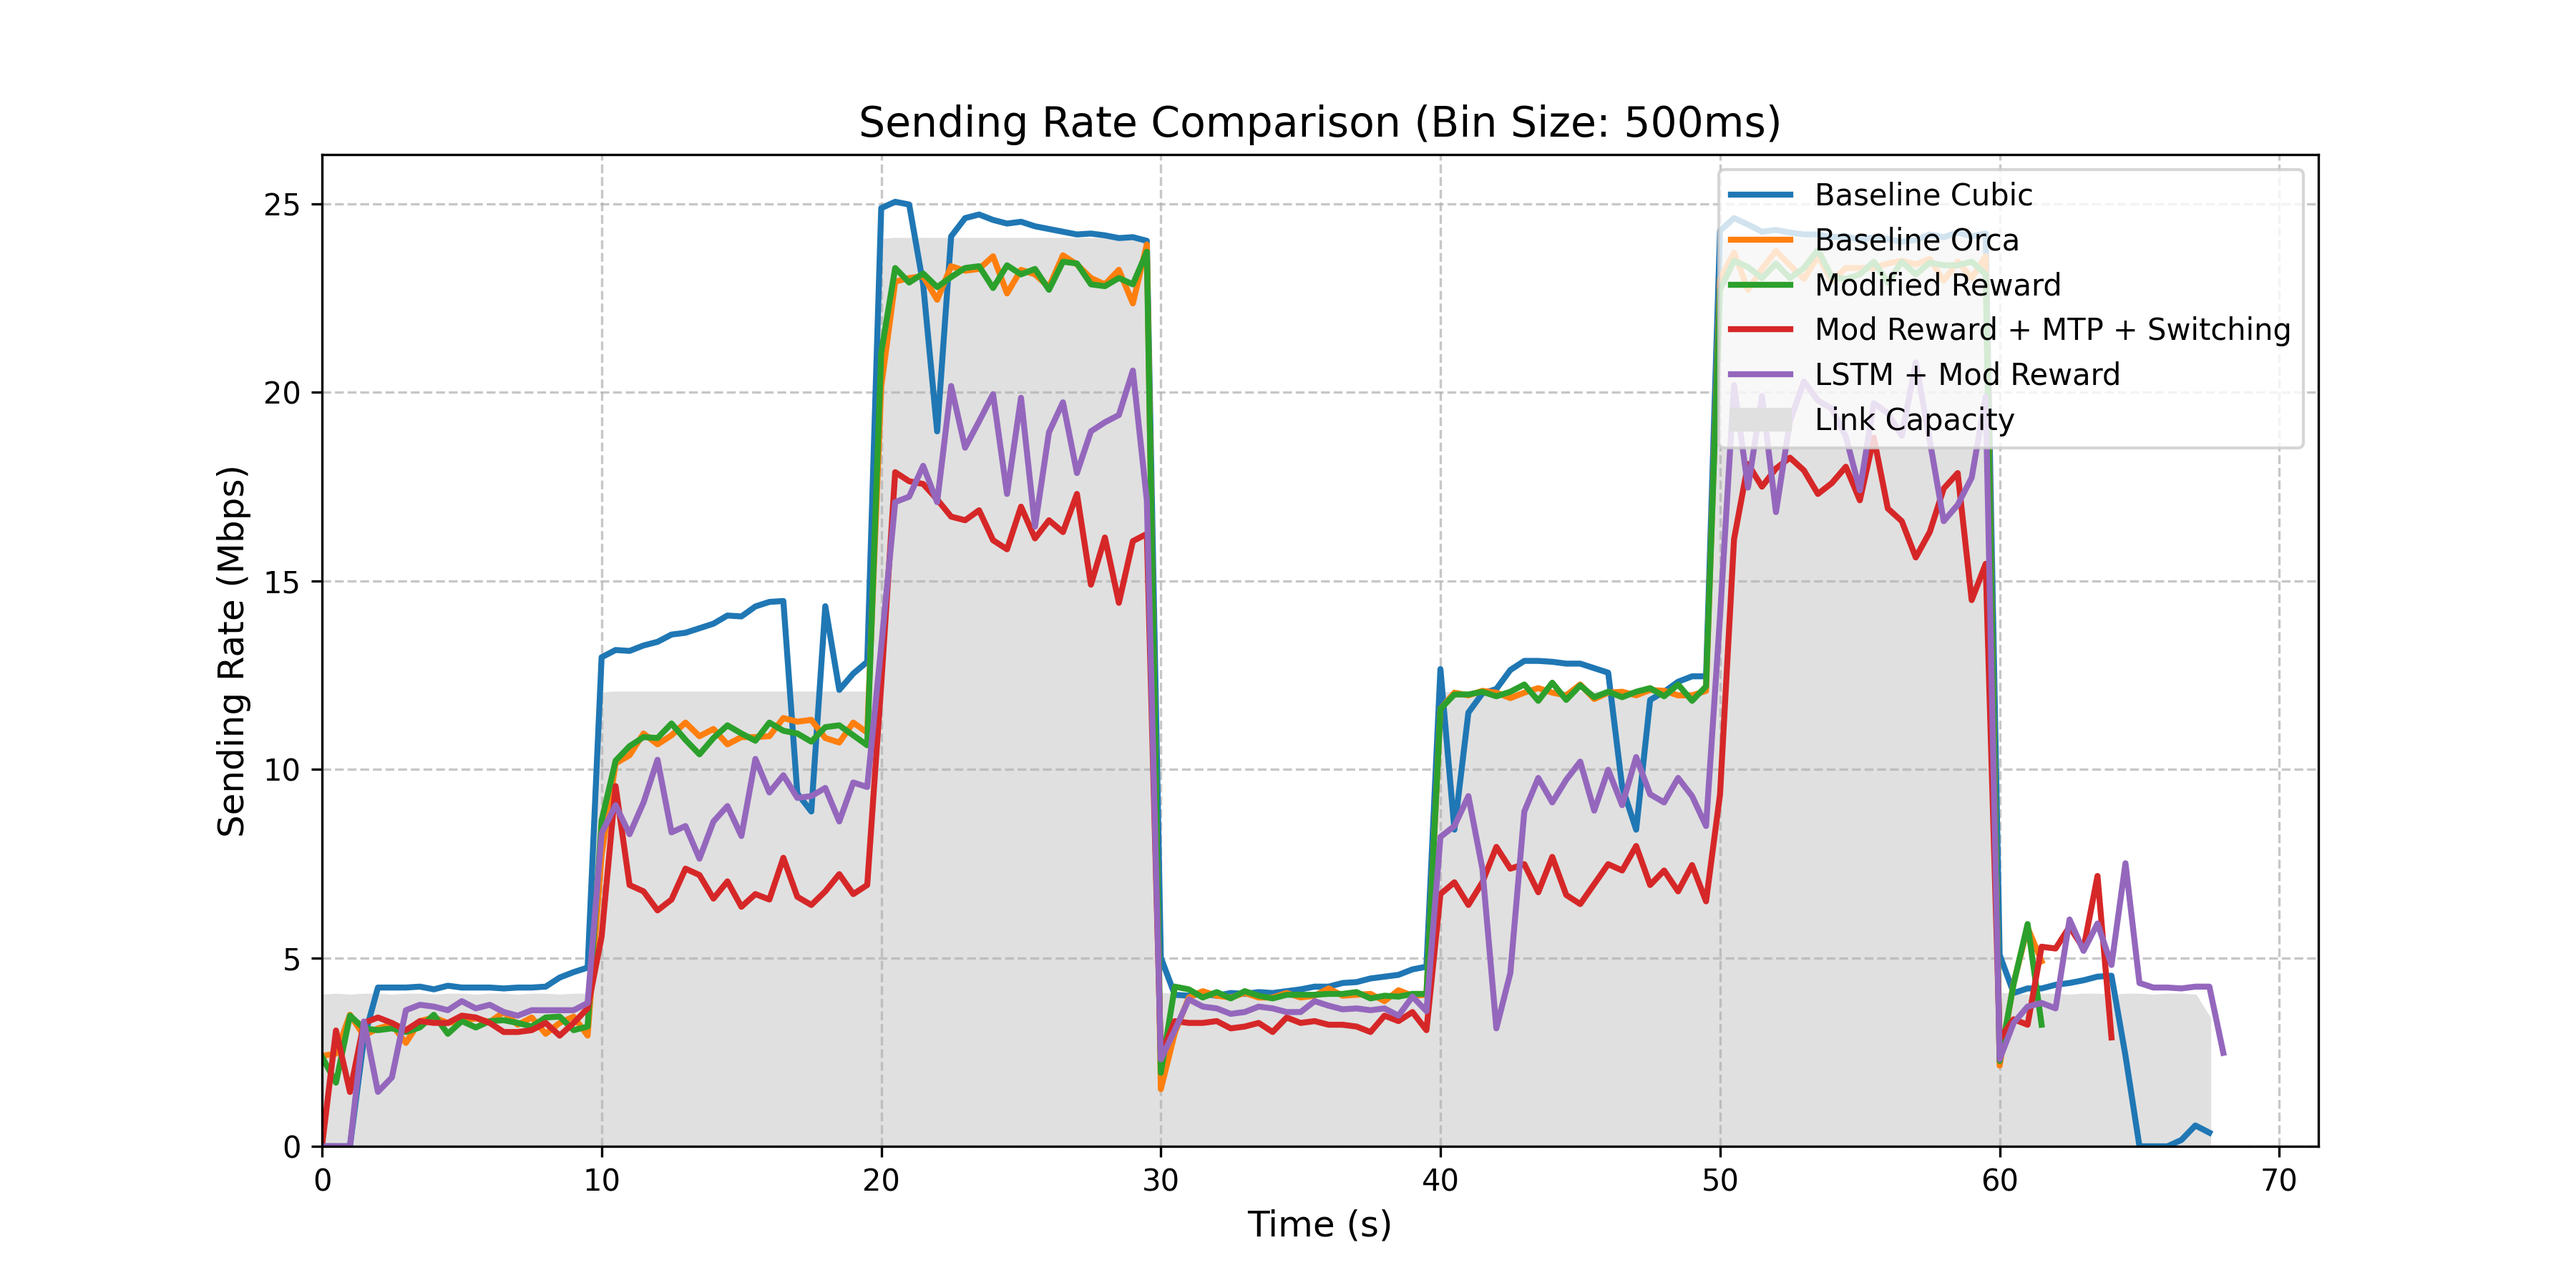
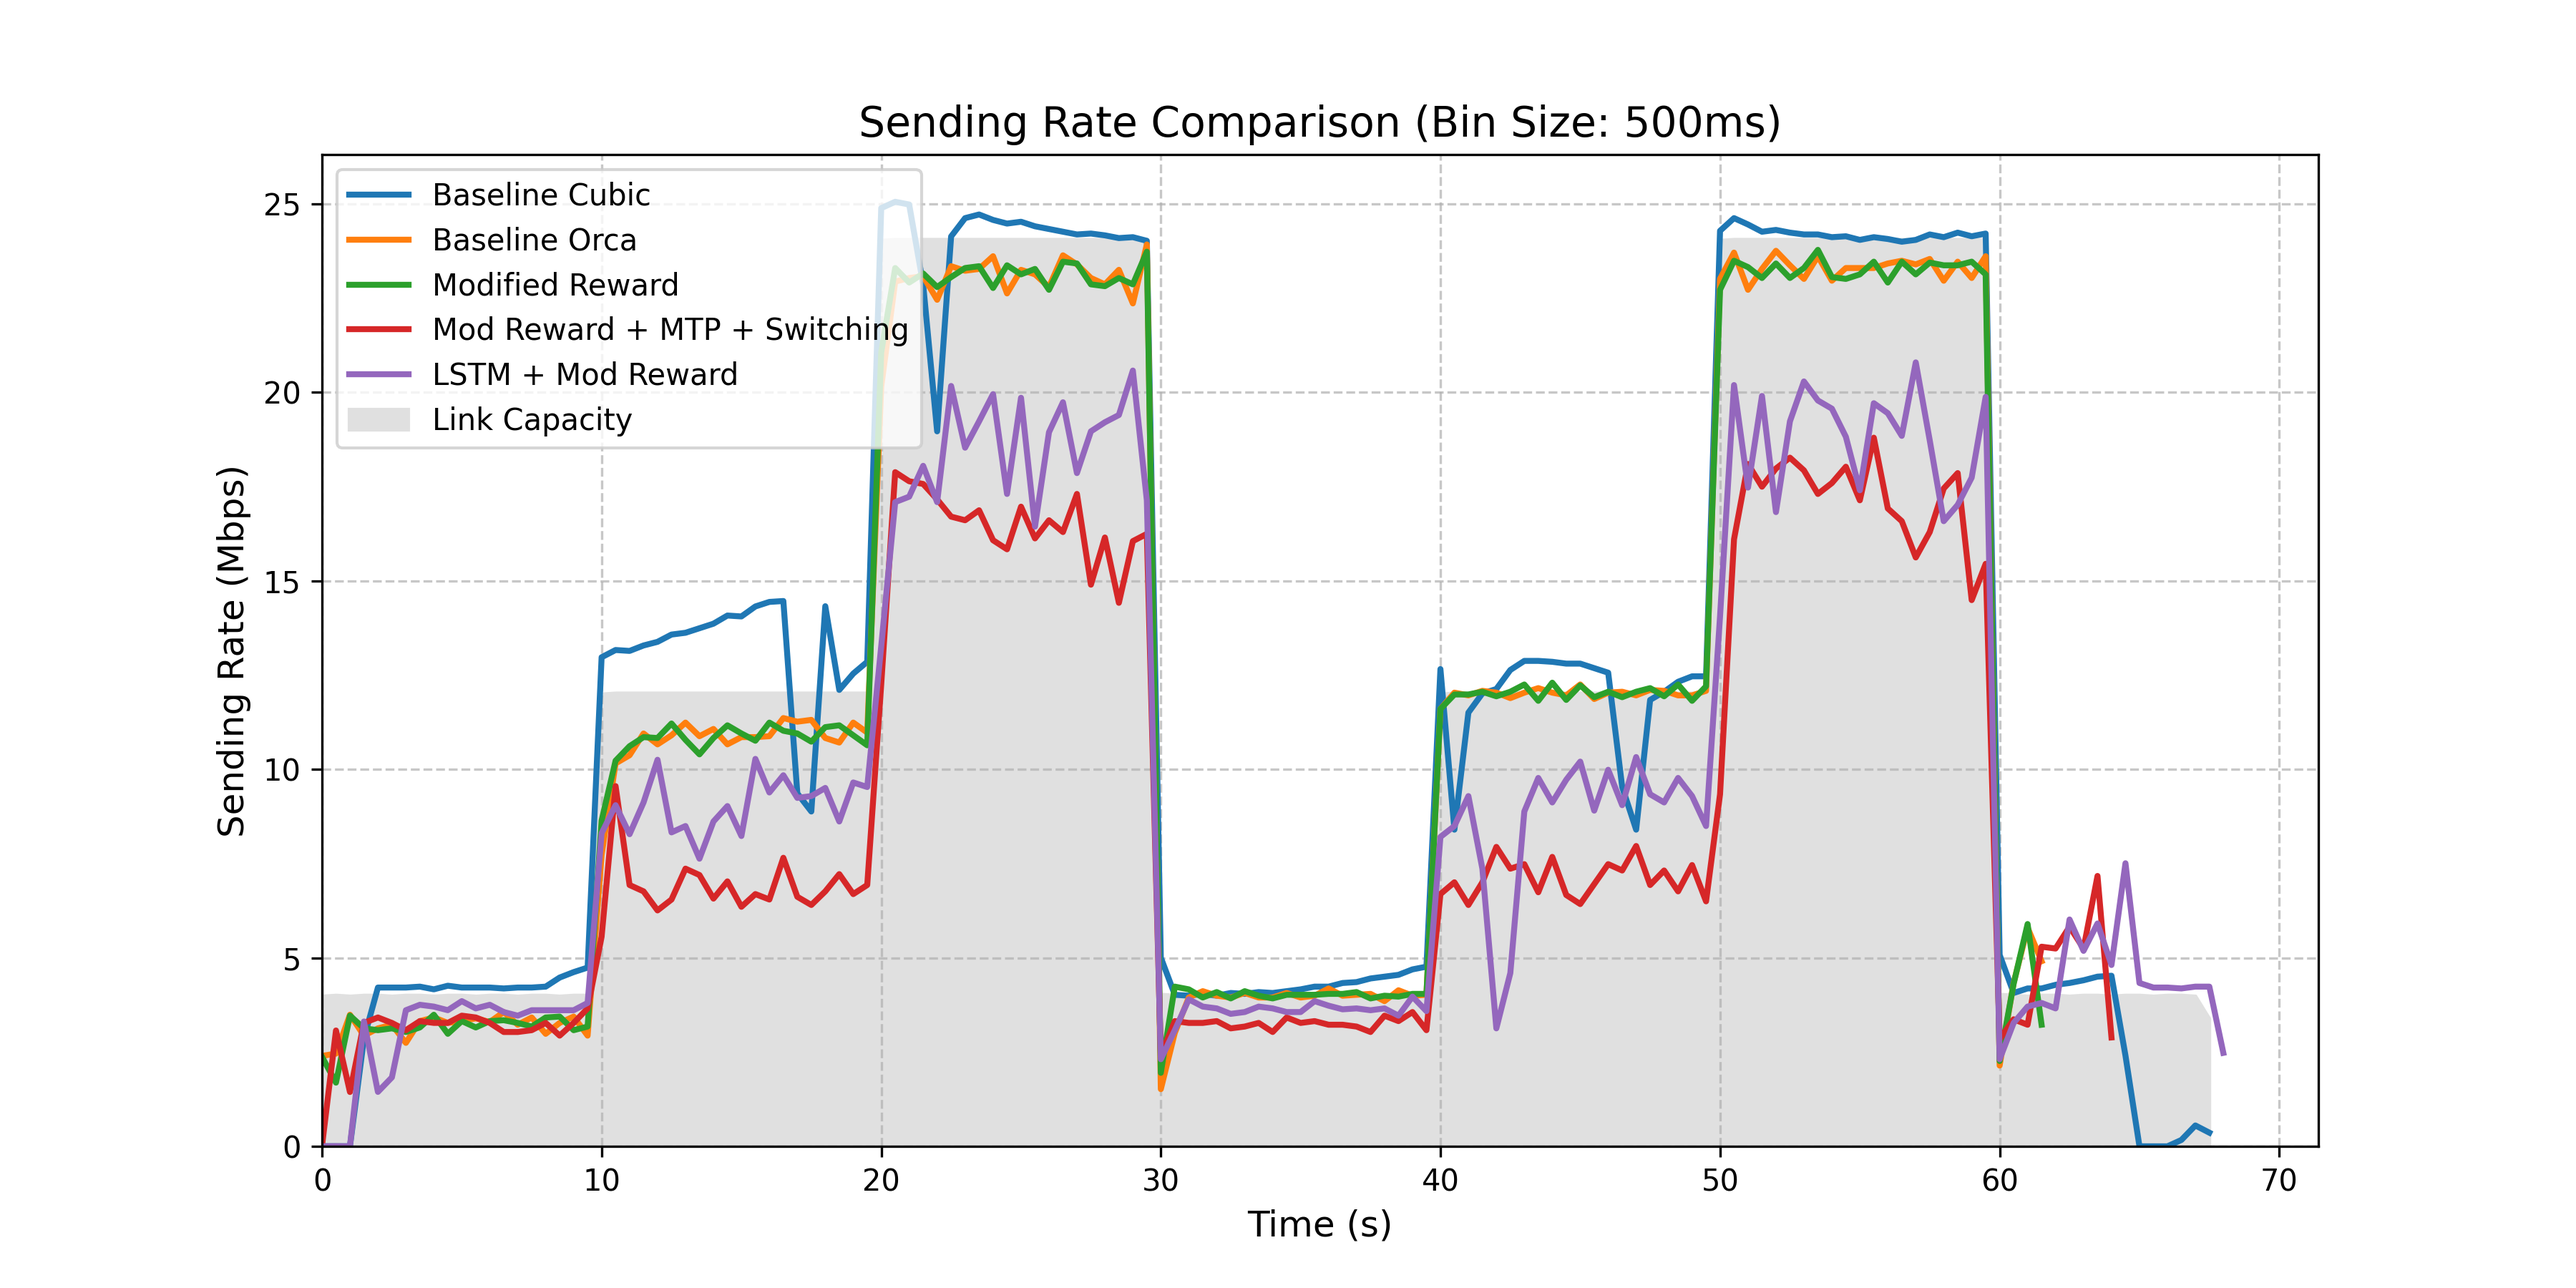
legend fixed

Changed region(s): [[0.1244, 0.1244, 0.3733, 0.3422], [0.6533, 0.1244, 0.9022, 0.3422]]

diff --git a/rl-module/plot_sending_rate.py b/rl-module/plot_sending_rate.py
@@ -122,7 +122,7 @@ def main():
     plt.ylabel("Sending Rate (Mbps)", fontsize=12)
     plt.title(f"Sending Rate Comparison (Bin Size: {bin_size}ms)", fontsize=14)
     plt.grid(True, linestyle='--', alpha=0.7)
-    plt.legend(loc='upper right', fontsize=10)
+    plt.legend(loc='upper left', fontsize=10)
     plt.xlim(left=0)
     plt.ylim(bottom=0)
     
